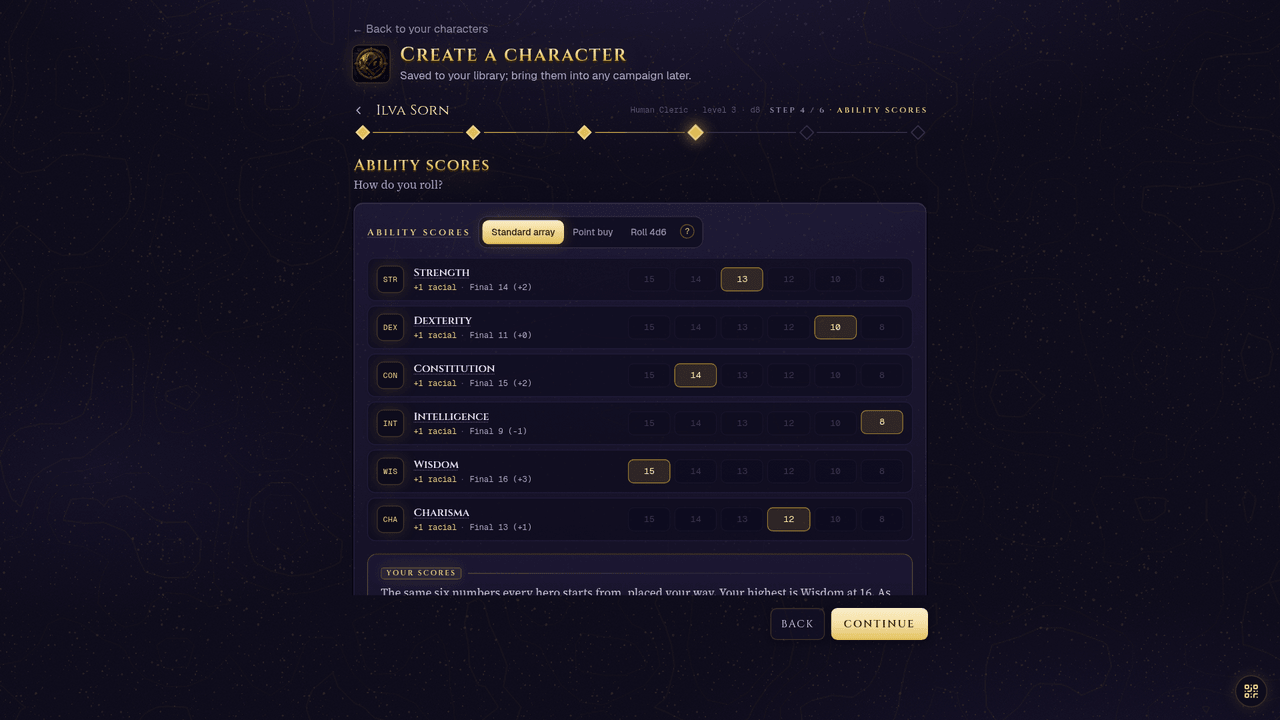
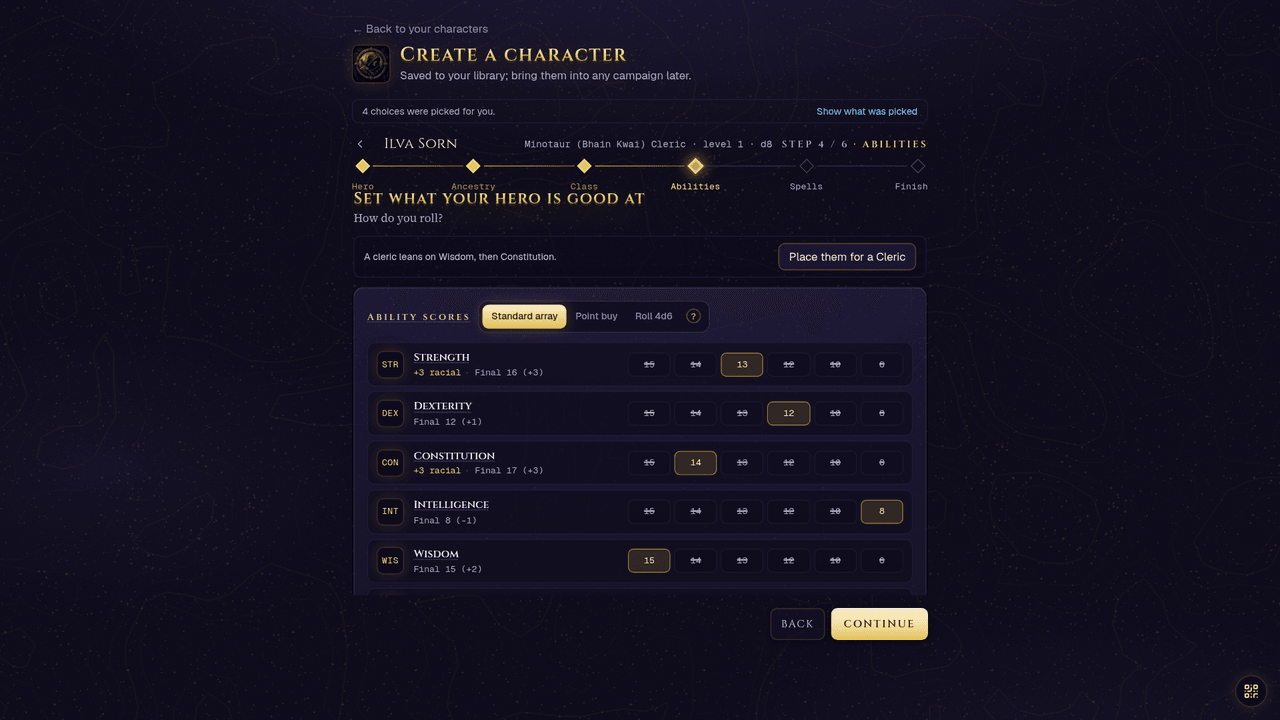
README: point newcomers to the knowledge base, gpt-oss-20b for a 16 GB gaming card, and the agents that paint
- A tip under the introduction sends new players to the knowledge base on
  opendungeonmaster.com (setup, system requirements, apps, play, every
  setting) and says most players need the apps, not a server. The
  Documentation section leads with it, the FAQ and What's new.
- Quick start names the two simplest storytellers: a ChatGPT Plus or
  SuperGrok plan, whose Codex or Grok Build agent narrates and paints, or
  a gaming PC with a 16 GB card running gpt-oss-20b, with example cards
  and the system requirements page.
- Codex and Grok Build lead the agent lists and say they paint; the
  pictures cell names them beside ComfyUI and an OpenAI key.
- The builder screenshot is retaken on 0.28.4: the step names under the
  diamonds and Place them for a Cleric.

diff --git a/README.md b/README.md
@@ -24,8 +24,9 @@
 campaigns with an AI Dungeon Master, on your own machine. The narrator is whichever
 AI you already have: **a local model** (llama.cpp, Ollama, LM Studio, vLLM), **an
 API key** (OpenAI, OpenRouter, or any OpenAI-compatible endpoint), or **a CLI agent
-you already pay for** (Claude Code, Codex, opencode, Grok Build), which narrates on
-its own subscription with no API key handed over. The model is the creative mind
+you already pay for** (Codex, Grok Build, Claude Code, opencode), which narrates on
+its own subscription with no API key handed over; Codex and Grok Build paint the
+pictures too. The model is the creative mind
 and narrator; a stack of server-side engines enforces the 5e rules for both the
 players and the DM. **The narrator never owns the numbers**: dice, hit points, spell slots, conditions, and the death track are computed and
 clamped by the backend, and the model changes game state only through tools the
@@ -33,6 +34,16 @@ server validates.
 
 The AI drives the session, requesting rolls, starting encounters, and playing NPCs
 and companions, following a secret story arc it regenerates as the campaign moves.
+
+> [!TIP]
+> **New here? Start with the [knowledge base](https://opendungeonmaster.com/guide/)
+> on the website.** It covers choosing a setup, the
+> [system requirements](https://opendungeonmaster.com/guide/start/system-requirements/),
+> installing the desktop and Android apps or this server, playing, leading a table,
+> running one as a human Dungeon Master and every setting, and it is checked against
+> each release. Most players never need a server: the
+> [apps](https://opendungeonmaster.com/download/) host a world themselves. This README
+> and [docs/](docs) are the reference for people running and changing the server.
 
 <div align="center">
 
@@ -45,7 +56,7 @@ and companions, following a secret story arc it regenerates as the campaign move
 <table>
 <tr>
 <td width="50%" align="center"><img src="docs/screenshot-battle-map.png" alt="The battle map enlarged: painted terrain, portrait tokens, the initiative strip and the fog shroud, with the chronicle beside it" width="460"><br><sub>The battle map, fogged and in initiative</sub></td>
-<td width="50%" align="center"><img src="docs/screenshot-builder.png" alt="The character builder on the ability scores step: the standard array placed across the six abilities, each with its racial bonus and final score" width="460"><br><sub>The character builder, placing ability scores</sub></td>
+<td width="50%" align="center"><img src="docs/screenshot-builder.png" alt="The character builder on the Abilities step: the six step names under their diamonds, the standard array placed across the six abilities with each final score, and Place them for a Cleric" width="460"><br><sub>The character builder, placing ability scores</sub></td>
 </tr>
 <tr>
 <td width="50%" align="center"><img src="docs/screenshot-workshop.png" alt="The workshop hub: an XP budget for the party it is built for, and tiles for WorldForge, storyboard, party, battle maps, region, encounters, cast, factions, bestiary, homebrew, lore, tables, rules, plugin and share" width="460"><br><sub>The workshop, where prep lives</sub></td>
@@ -71,7 +82,7 @@ and companions, following a secret story arc it regenerates as the campaign move
 <td width="50%" valign="top" align="center">
 <img src="public/sidebar-icons/text-model.webp" width="56"><br>
 <b>Your AI Dungeon Master, your choice</b><br>
-<sub>A local model (llama.cpp, Ollama, LM Studio, vLLM), an API key (OpenAI, OpenRouter, any OpenAI-compatible endpoint with tool calling), or a CLI agent subscription you already have: Claude Code, Codex, opencode or Grok Build. Whichever narrates, it makes the creative calls and never states a roll or edits its own numbers.</sub>
+<sub>A local model (llama.cpp, Ollama, LM Studio, vLLM; gpt-oss-20b on a 16 GB gaming card), an API key (OpenAI, OpenRouter, any OpenAI-compatible endpoint with tool calling), or a CLI agent subscription you already have: Codex or Grok Build, which also paint the pictures, Claude Code or opencode. Whichever narrates, it makes the creative calls and never states a roll or edits its own numbers.</sub>
 </td>
 </tr>
 <tr>
@@ -95,7 +106,7 @@ and companions, following a secret story arc it regenerates as the campaign move
 <td width="50%" valign="top" align="center">
 <img src="public/sidebar-icons/images.webp" width="56"><br>
 <b>Battle maps &amp; scene art</b><br>
-<sub>Optional ComfyUI drives character portraits, inline scene art and top-down battle maps with per-character line of sight. Missing? It fails soft to a placeholder.</sub>
+<sub>Optional ComfyUI, an OpenAI key, or the Codex or Grok Build agent that narrates paints character portraits, inline scene art and location maps; battle maps draw themselves with per-character line of sight. Missing? It fails soft to a placeholder.</sub>
 </td>
 </tr>
 <tr>
@@ -143,12 +154,20 @@ enforced and what is guidance: [docs/rules-coverage.md](docs/rules-coverage.md).
 
 You need **Node 22.18+, 24 or 26+** (or Docker) and **a storyteller**: a local
 model server such as llama.cpp or Ollama, an API key (OpenAI, OpenRouter or any
-OpenAI-compatible provider), or a CLI agent you already pay for (Claude Code,
-Codex, opencode, Grok Build). Pictures and voice are optional.
+OpenAI-compatible provider), or a CLI agent you already pay for (Codex, Grok Build,
+Claude Code, opencode). Pictures and voice are optional.
 
-A local model needs **at least 16 GB of graphics memory**: a 16 GB card runs
-gpt-oss-20b, the minimum, and about 28 GB runs the recommended Qwen3.6-35B-A3B
-([what each size of card runs](docs/text-backends.md#hardware-for-a-local-model)).
+The two simplest storytellers: a **ChatGPT Plus** or **SuperGrok** plan, whose Codex
+or Grok Build agent narrates and paints the pictures on one subscription, signed in
+on the server's computer; or a **gaming PC with a 16 GB graphics card** running
+gpt-oss-20b, free and private.
+
+A local model needs **at least 16 GB of graphics memory**. A 16 GB card (a GeForce
+RTX 4060 Ti 16 GB, 4070 Ti Super, 4080, 5060 Ti 16 GB, 5070 Ti or 5080, or a Radeon
+RX 7600 XT, 7800 XT, 9060 XT 16 GB or 9070) runs **gpt-oss-20b** whole on the card,
+the pick for that card, and about 28 GB runs the recommended Qwen3.6-35B-A3B
+([what each size of card runs](docs/text-backends.md#hardware-for-a-local-model),
+and the [system requirements](https://opendungeonmaster.com/guide/start/system-requirements/)).
 Below 16 GB a local model is not supported; use an API key, an agent program or
 a human Dungeon Master. Run it on llama.cpp, with a **context window of at
 least 16K tokens to narrate and 24K to run fights; 32K or more is
@@ -181,6 +200,12 @@ Both follow the stable releases. Nightly betas, and how a beta becomes stable:
 [docs/releases.md](docs/releases.md).
 
 ## Documentation
+
+Playing, hosting from the apps, leading a table and every setting are in the
+**[knowledge base](https://opendungeonmaster.com/guide/)** on opendungeonmaster.com,
+with a [FAQ](https://opendungeonmaster.com/guide/reference/faq/) and
+[what changed in each release](https://opendungeonmaster.com/guide/reference/whats-new/).
+The documents below are the server's own reference.
 
 - **Getting started**
   - [Install and first run](docs/install.md): requirements, the guided setup, setup by hand, the first admin account, the content pack, tests
